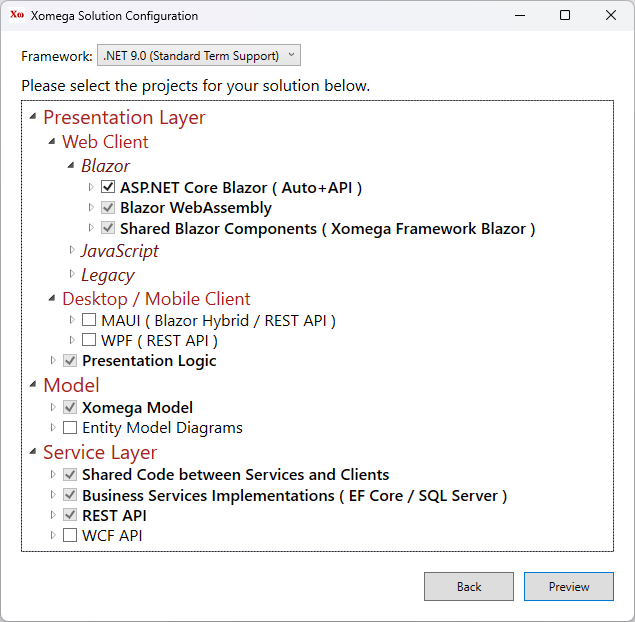
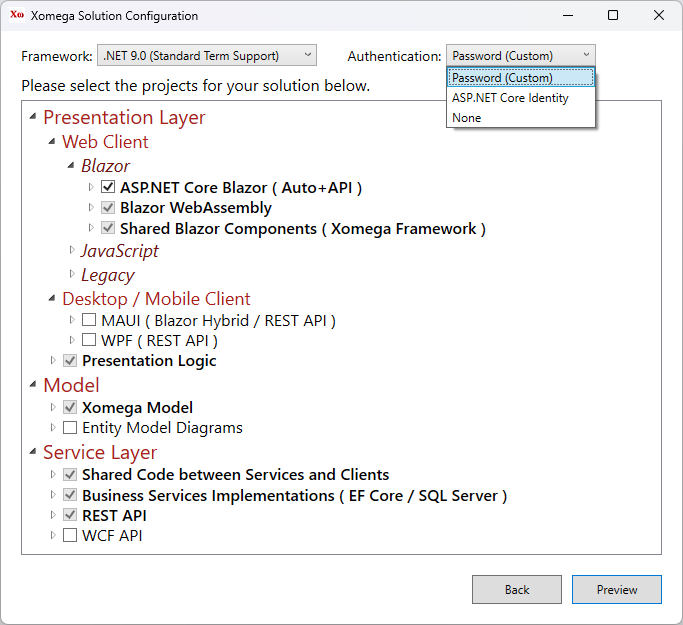
Updates for release 9.12.5 with Authentication options

Changed region(s): [[0.0, 0.0, 0.9874, 0.9775], [0.9575, 0.0, 0.9874, 0.0305], [0.8677, 0.0, 0.8976, 0.0305]]

diff --git a/docs/visual-studio/new-projects/new-solutions.md b/docs/visual-studio/new-projects/new-solutions.md
@@ -28,7 +28,7 @@ Set the project name, enter the location folder to create the solution in, optio
 
 ## Selecting solution components
 
-You should see a *Xomega Solution Configuration* screen, which allows you to set the target framework (.NET 9.0, if installed, or .NET 8.0), and then pick and configure client-side and server-side technologies and projects that you want to use in your solution.
+You should see a *Xomega Solution Configuration* screen, which allows you to set the target framework (.NET 9.0, if installed, or .NET 8.0), select an [authentication option](#authentication-options), and then pick and configure client-side and server-side technologies and projects that you want to use in your solution.
 
 Usually, you just need to pick the main client-side technology, and any other projects that are required for your selection will be automatically included in the solution as well.
 
@@ -39,6 +39,39 @@ The following picture shows the required projects for the *Blazor* technology th
 If you want to target several technologies at the same time, such as WPF, you can select additional projects here, and they'll share most of the presentation and business logic of your solution.
 
 Similarly, you can pick additional service layer projects, e.g., to expose your services via WCF API to some legacy clients that cannot consume REST API for some reason.
+
+### Authentication options
+
+Xomega solution wizard allows you to pick one of the following supported authentication options.
+
+#### Password (Custom)
+
+This is the default option that sets up your solution with custom password-based authentication and configures all the plumbing for securing your services and UI for each of your selected technologies. This is a good option if you already store (or planning to store) all user authentication and authorization information in your application's database.
+
+The default stubbed implementation for the authentication accepts any user name and just checks that the password is "password". It constructs a user identity with the only claim populated from the supplied user name. To implement your custom authentication you basically need do the following after creating your solution.
+
+1. Open the `login.xom` under the *Auth* folder of  the `.Model` project, and update `user info` structure to add parameters for any additional claims that you want for the user. Build the `.Model` project after that to regenerate all the code.
+1. Update `UserInfoPrincipalConverter` class in the *ServiceContracts/Auth* folder of the `.Services.Common` project to use those new parameters when converting `UserInfo` to/from the `ClaimsPrincipal`.
+1. Update `LoginAsync` method of the `PasswordLoginServiceCustomized` class under the *Services/Auth* folder of the `.Services.Entities` project to validate the user name and password, as per the *TODO* comment in there.
+1. Also, add code to the `LoginAsync` method to read and populate all fields of the updated `UserInfo` structure, as per the *TODO* comment in there.
+
+You can learn more about details of the default password-based security plumbing, as well as see an example of how to implement authentication and authorization logic, in our [walkthrough tutorial](../../tutorial/security/overview).
+
+#### ASP.NET Core Identity
+
+This is a variation of the password-based authentication, where, instead of custom storage of the user authentication and authorization data, you want to use standard structures based on the ASP.NET Core Identity. This will allow you to leverage ASP.NET Core Identity framework to add standard web-based screens for managing user profiles and passwords.
+
+The tables for ASP.NET Core Identity objects can reside either in your application database or in a separate database. In the latter case, you will be able to use that separate database as a central storage of user authentication and authorization data across multiple applications.
+
+In either case, after you create the solution, you need to open the `db.config` file under the `.Services.Entities` project and update the `IdentityDB` connection string to point to the database that stores your ASP.NET Core Identity data. You can also refactor the startup code to pull the connection string from a different source, such as `appsettings.json` or an environment variable.
+
+To create a separate web application for the users to manage their passwords and profile info, you can just add a new project using the standard template "ASP.NET Core Web App (Razor Pages)" and select "Individual Accounts" as the *Authentication Type* there. Then you can update the "DefaultConnection" there to point to your database with ASP.NET Core Identity data. If you don't have identity data set up yet, this project will allow you to create such a database using a migration.
+
+If you don't want a separate web application for managing identity, you can just add identity to one of the ASP.NET Core projects of your solution, such as `.Client.Blazor` or `.Services.Rest`, by calling `services.AddDefaultIdentity<IdentityUser>()` in the corresponding startup code.
+
+#### None
+
+This authentication option allows you to create a solution without any authentication and authorization plumbing code. You can select this option if you are planning to add your own authentication code using third-party identity providers, of if you just want to explore Xomega solutions without any authentication.
 
 ## Reviewing solution configuration
 

diff --git a/docs/tutorial/1-basic/5-run.md b/docs/tutorial/1-basic/5-run.md
@@ -10,16 +10,16 @@ Let's go ahead and build the solution. If everything has been set up and run cor
 
 The way we configured our solution initially was to use the `InteractiveAuto` render mode for Blazor pages. This means that **while Blazor WebAssembly libraries are being loaded** by the browser, any interactivity on the screens will be provided by the *Blazor Server*. Once the WebAssembly is loaded, the screens will transition to being rendered by the Blazor WebAssembly technology.
 
-However, you can easily change the render mode in the `App.razor` file under the `AdventureWorks.Client.Blazor.Common` project. For example, if you want to run the application exclusively using Blazor Server, you can change the `RenderModeForPage` to be `InteractiveServer` as follows.
+However, you can easily change the render mode in the `Program.cs` file under the `AdventureWorks.Client.Blazor` project. For example, if you want to run the application exclusively using Blazor Server, you can change the `RenderModeForPage` to be `InteractiveServer` as follows.
 
-```razor title='App.razor'
-...
-@code {
+```cs title='Program.cs'
 <!-- removed-next-line -->
-    private IComponentRenderMode RenderModeForPage => InteractiveAuto;
+App.RenderModeForPage = RenderMode.InteractiveAuto;
 <!-- added-next-line -->
-    private IComponentRenderMode RenderModeForPage => InteractiveServer;
-}
+App.RenderModeForPage = RenderMode.InteractiveServer;
+app.MapRazorComponents<App>()
+    .AddInteractiveServerRenderMode()
+    .AddInteractiveWebAssemblyRenderMode();
 ```
 
 Similarly, you can change it to `InteractiveWebAssembly` to have the screens rendered by Blazor WebAssembly only. The only difference for this mode with the `InteractiveAuto` would be that the app will show a *loading* screen while WebAssembly libraries are being loaded, instead of rendering it with Blazor Server.

diff --git a/docs/platform/releases/vs2022.md b/docs/platform/releases/vs2022.md
@@ -8,6 +8,31 @@ pagination_prev: null
 
 Below is a summary of the release notes for the *Xomega.Net for Visual Studio 2022* releases.
 
+## Version 9.12.5
+
+Release Date: 1/8/2025
+
+### New features
+
+- **Support for Authentication options in solution wizard.**
+  - Added [*Authentication* selection](../../visual-studio/new-projects/new-solutions#selecting-solution-components) to the solution wizard with [`Password (Custom)`](../../visual-studio/new-projects/new-solutions#password-custom) option for the current security setup.
+  - Added support for [`ASP.NET Core Identity`](../../visual-studio/new-projects/new-solutions#aspnet-core-identity) authentication option to all projects for EFCore, EF6 and PostgreSQL.
+    - Added `SecurityStamp` to claims for the user's identity, and used it for refresh token validation.
+  - Added authentication option [`None`](../../visual-studio/new-projects/new-solutions#none) to create all solution projects without any authentication/authorization.
+
+### Minor changes
+
+- DB context registration for Npgsql (PostgreSQL) now uses a new method for connection string.
+- Updated NuGet packages for ASP.NET and WCF projects to avoid ones with vulnerabilities.
+- Updated EntityFramework 6 version to the latest 6.5.1.
+
+### Bug fixes
+
+- Added [`efCoreVer` config](../../generators/data/entities#model-configuration) to allow generating entities for legacy EF Core for .NET Standard 2.0 (e.g. versions 2.1-3.1).
+- Fixed support for selecting Blazor Server and a standalone WebAssembly in the same solution, which moves [setting of interactive render mode](../../tutorial/basic/run##interactive-render-modes) to the `Program.cs` now.
+- Fixed [EF Domain Objects](../../generators/data/entities) generator to use generic `DbContextOptions` for the entities DB context.
+
+
 ## Version 9.12.4
 
 Release Date: 12/18/2024

diff --git a/docs/tutorial/1-basic/1-create.md b/docs/tutorial/1-basic/1-create.md
@@ -28,9 +28,9 @@ If you haven't done it yet, you'll need to download the license file from your o
 
 ## Xomega solution configuration
 
-You should see a *Xomega Solution Configuration* screen, which allows you to pick and configure client-side and server-side technologies and projects that you want to use in your solution. Any other projects that are required for your selection will be automatically included in the solution as well.
+You should see a *Xomega Solution Configuration* screen, which allows you to select an authentication option, as well as to pick and configure client-side and server-side technologies and projects that you want to use in your solution. Any other projects that are required for your selection will be automatically included in the solution as well.
 
-We are going to start with the Blazor technology in this tutorial, so let's select *ASP.NET Core Blazor* project, as shown below.
+As you'll see [later in this tutorial](../security/overview), we'll use custom data stored in our sample database for authentication, which means that we should keep the default *Password (Custom)* as the authentication option. For the client-side technology, we are going to start with the Blazor in this tutorial, so let's select *ASP.NET Core Blazor* project, as shown below.
 
 ![Solution projects](img1/solution-projects.png)
 

diff --git a/docs/generators/data/entities.md b/docs/generators/data/entities.md
@@ -170,12 +170,13 @@ The following table lists configuration parameters that are set as the generator
 
 The configuration parameters for the generator that need to be also accessible to other generators are specified in the Xomega model in the `edm:entities-config` element under the top-level `config` element, which is conventionally placed in the `global_config.xom` file.
 
-A boolean parameter `efCore` indicates whether to generate classes for Entity Framework Core (`true`) or Entity Framework 6.x (`false`).
+A boolean parameter `efCore` indicates whether to generate classes for Entity Framework Core (`true`) or Entity Framework 6.x (`false`). The `efCoreVer` parameter specifies the major/minor versions of the EF Core framework being used to allow generating proper code for legacy EF Core versions (i.e. 2.1-3.1) that support .NET Standard 2.0.
 
 Other parameters include the namespace for the generated entity classes, as well as the name of the `DbContext` subclass to use, as shown below.
 
 ```xml title="global_config.xom"
-<edm:entities-config efCore="true" namespace="MySolution.Services.Entities" context="MySolutionEntities"/>
+<edm:entities-config efCore="true" efCoreVer="9.0"
+                     namespace="MySolution.Services.Entities" context="MySolutionEntities"/>
 ```
 
 ### Common configurations
